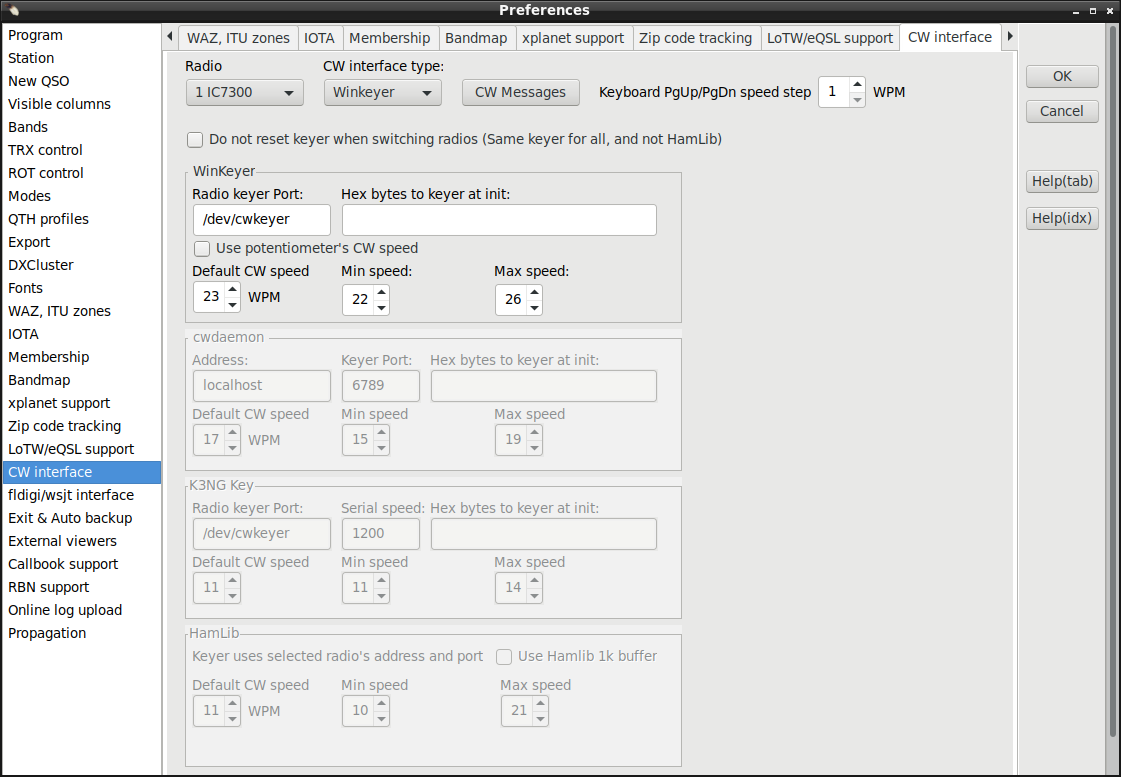
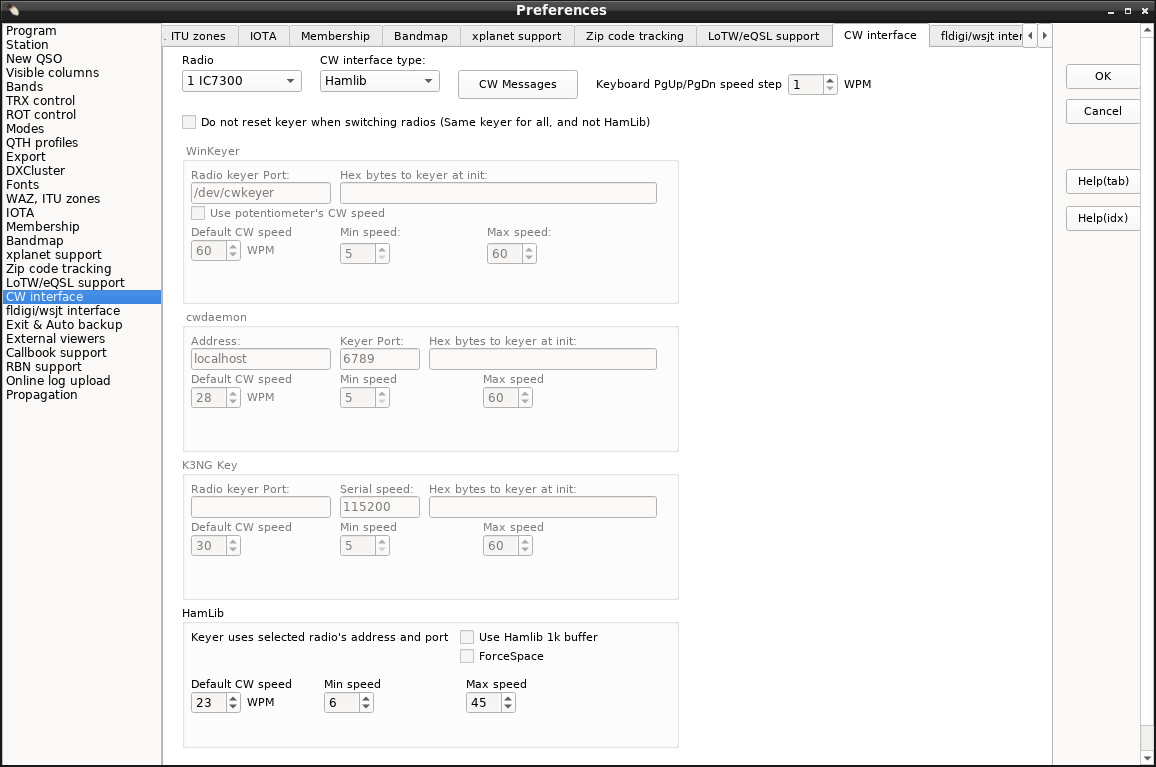
CWType:Add: Added 'Line' mode.

Changed region(s): [[0.0, 0.0, 0.9054, 0.9896], [0.9054, 0.03, 0.9991, 1.0]]

diff --git a/help/h26.html b/help/h26.html
@@ -34,7 +34,7 @@
     Set up your CW messages via Preferences/CW inteface/CW messages button.
     <br> You can also access CW messages from the top menu of the New QSO window.
     Click on the 'File' item and select CW Messages.<br><br>
-    <img src=img/h96b.png>&nbsp;&nbsp;<img src=img/h96.png><br><br>
+    <img src=img/h95.png>&nbsp;&nbsp;<img src=img/h96.png><br><br>
     CW messages  will be sent when you press the corresponding <strong>F</strong>-key(s) or click message buttons in <b> Memory keys </b> or <b> CW type </b> windows.
     You can set up to 10 predefined messages in two sets.<br>
     Set1 <b>"S&P"</b> is always default. Set2 <b>"Run"</b> is active when contest window is opened and checkbox "S&P" is <b>NOT</b> checked.<br>
@@ -93,20 +93,23 @@
    <br>You can select what happens when <strong>Memory keys</strong>-form is active and <strong>ENTER</strong> (also called Return) key is pressed, <strong>repeat last clicked memory</strong> (send focused button text)
    , <strong>ignore it</strong> (do nothing) or <strong>save qso</strong>, by selecting that with ENTER section radio buttons in <strong> CW Messages</strong> definition form.</p>
     <a name=mk2><img src=img/h98.png></a><br>
-    Another form <strong>CW type</strong> is a powerful keyboard keyer with 3 operation modes selected by right mouse click over memory buttons or bottom panel<br></p>
+    Another form <strong>CW type</strong> is a powerful keyboard keyer with 4 operation modes selected by right mouse click over bottom panel<br>
+    A quick scroll through sending modes is also possible using Alt+N key when CW type form is active</p>
     <ul>
         <li><strong>letter mode</strong> - the character of the corresponding keyboard key is sent immediately when pressing the key
         <li><strong>first word using letter mode, next words using word mode</strong> - 
             The keyer begins in letter mode to avoid unneccessary delays. After spacebar is pressed it switches to word mode
         </li>
         <li><strong>word mode</strong> - when a whole word is typed sending starts when pressing the spacebar
+        <li><strong>line mode</strong> - when a whole line is typed sending starts when pressing the enter key. It makes easy to prepare your next over while listening.
     </ul>
-    These modes are common on professional keyboard keyers.<br><br>
+    <br>
     CWTyping area allows paste (copy in editor/paste to CWType) and drop (select in editor and drag with mouse left button pressed and drop on CWType area).<br><br>
-    <strong>NOTE!</strong> CW sending has limited buffer space depending keyer type and rig model. Be aware that pasting a very long text to CWType area may lead to CW keyer buffer overflow. When Hamlib keying is in use it will send words under 10 characters as one command, but if text to be sent is longer it will send all letter by letter (1 chr per one command).
+    <strong>NOTE!: </strong> CW sending has limited buffer space depending keyer type and rig model. Be aware that pasting a very long text to CWType area may lead to CW keyer buffer overflow. When Hamlib keying is in use it will send words under 10 characters as one command, but if text to be sent is longer it will send all letter by letter (1 chr per one command).
      This is tested to work with IC7300. Same should happen with Kenwoodother rigs and HamLib keying, but this is not tested and may not work in same way.
       
-      <br><br> <strong>Same warning  </strong>with manual typing in word mode: If your typing speed is faster than cw sending you may hit send buffer limit sooner or later.
+      <br><br> <strong>Warning with manual typing in word mode:</strong> If your typing speed is faster than cw sending you may hit send buffer limit sooner or later.
+      <br><strong>Warning with line mode:</strong> It is very easy to fill send buffer with this mode. In case of Hamlib keyer consider to use Hamlib 1k buffer if you use this mode. <a href="h1.html#ch1">Preferences/CWinterface/Hamlib keyer</a>
       <br><br> <strong>Switching radios </strong>while CW sending is going on can cause unexpected results !
       <br><strong>Always wait</strong> that CW message has finshed before switching radios as it will also switch CW keyers.
       <br><strong>Always wait</strong> that selected radio shows frequency in TRXControl before sending a CW message or start using CW Type.

diff --git a/help/h20.html b/help/h20.html
@@ -179,6 +179,7 @@ tr:nth-child(even){background-color:#d6eeee;}
     <tr>
         <td width="35%">ALT-N</td>
         <td width="65%">set QSL_S/QSL Send to N (N = No QSL/No paperQSL)</td>
+        <tr><td></td><td>scroll through CWType modes when CWType window is active</td></tr>
     </tr>
     <tr>
         <td width="35%">ALT-O</td>

diff --git a/src/changelog.html b/src/changelog.html
@@ -12,6 +12,7 @@
     What is new:
     <ul style="list-style: square;text-align:left; color: green;" >
     <li>(139)</li><ul>
+    <li>CWType:Add: Added 'Line' mode. Makes easy to prepare your next over while still listening </li>
     <li>RotControl:Fix: error when driving rotor that has not initialized </li>
     <li>Statistics:Fix: some more layout fixes for DOK,WAZ,ITU,WAC,WAS </li>
     <li>Statistics:Fix: some layout fixes for WAZ,ITU,WAC,WAS </li>	